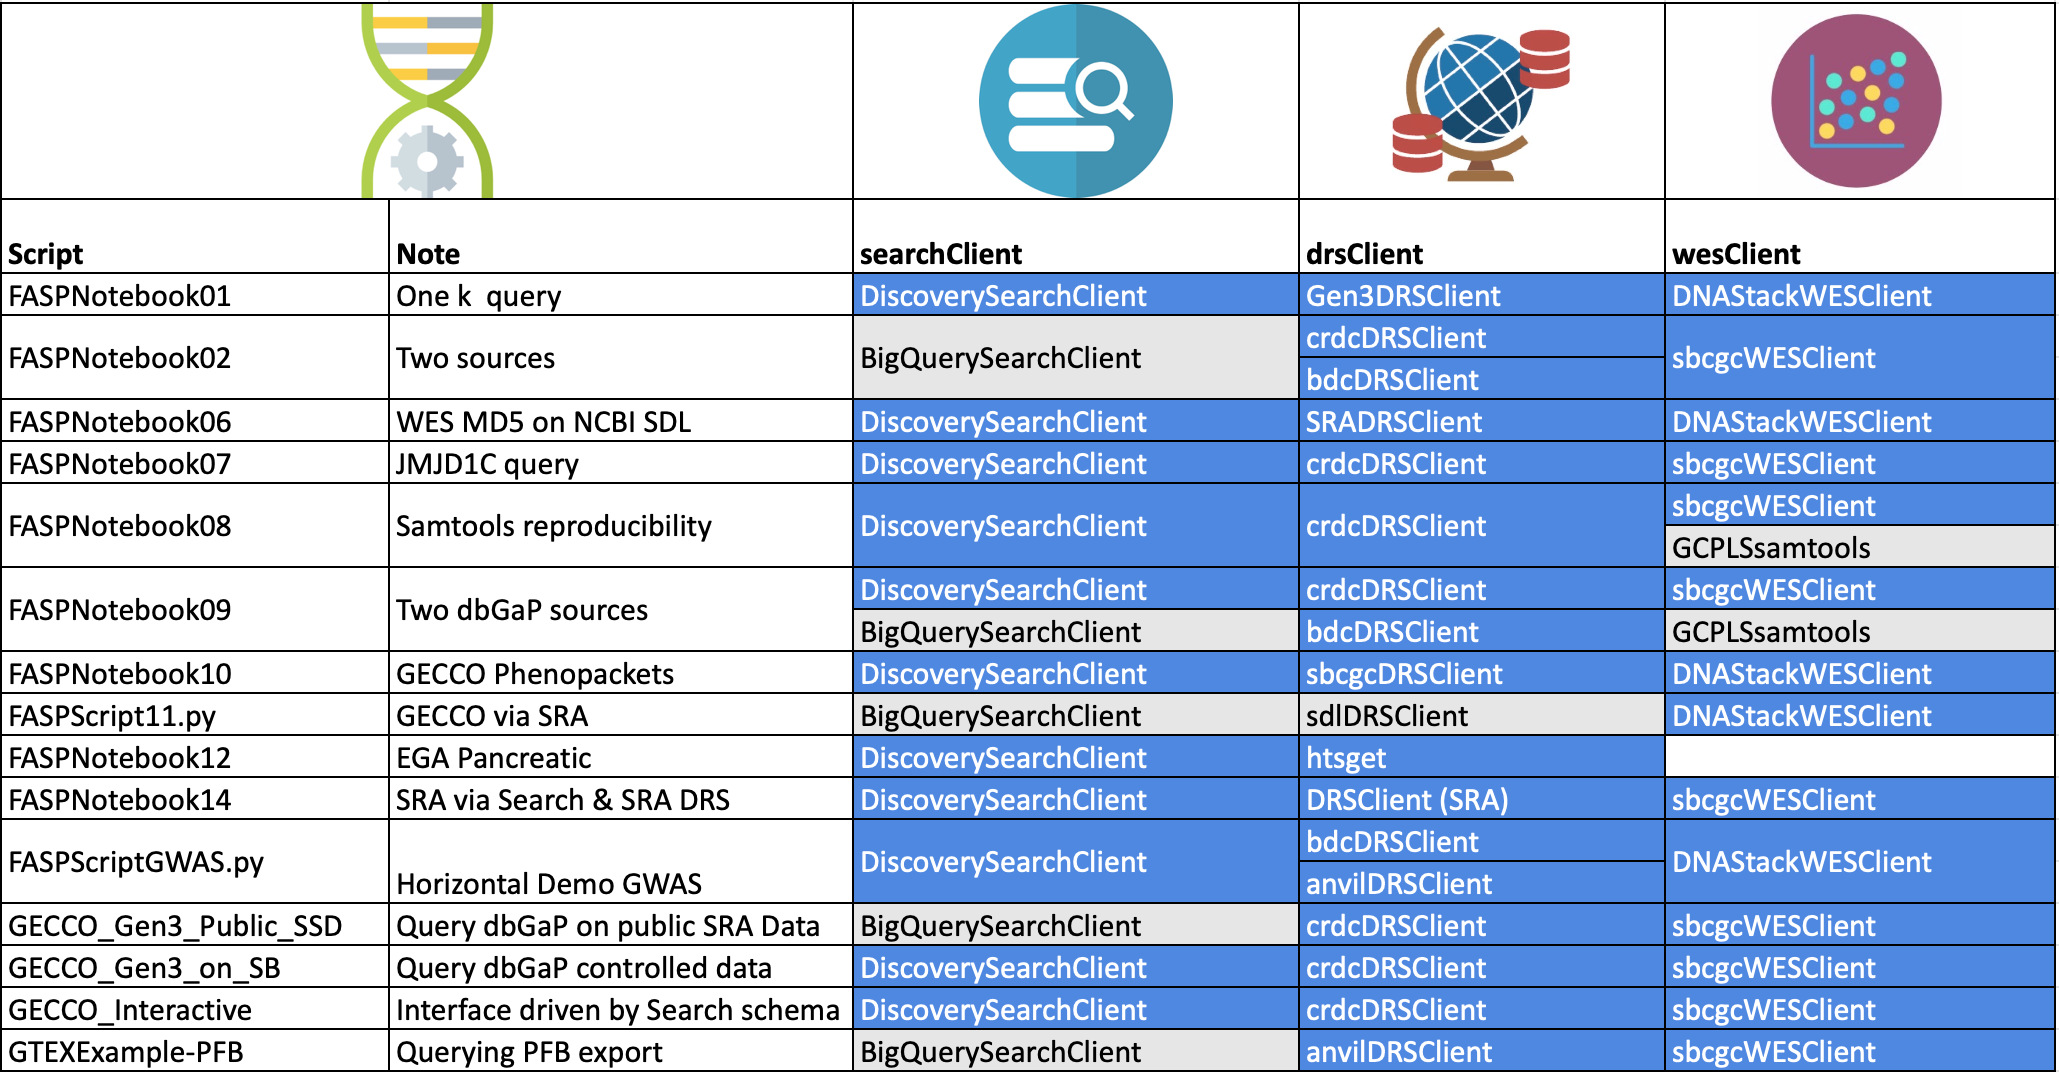
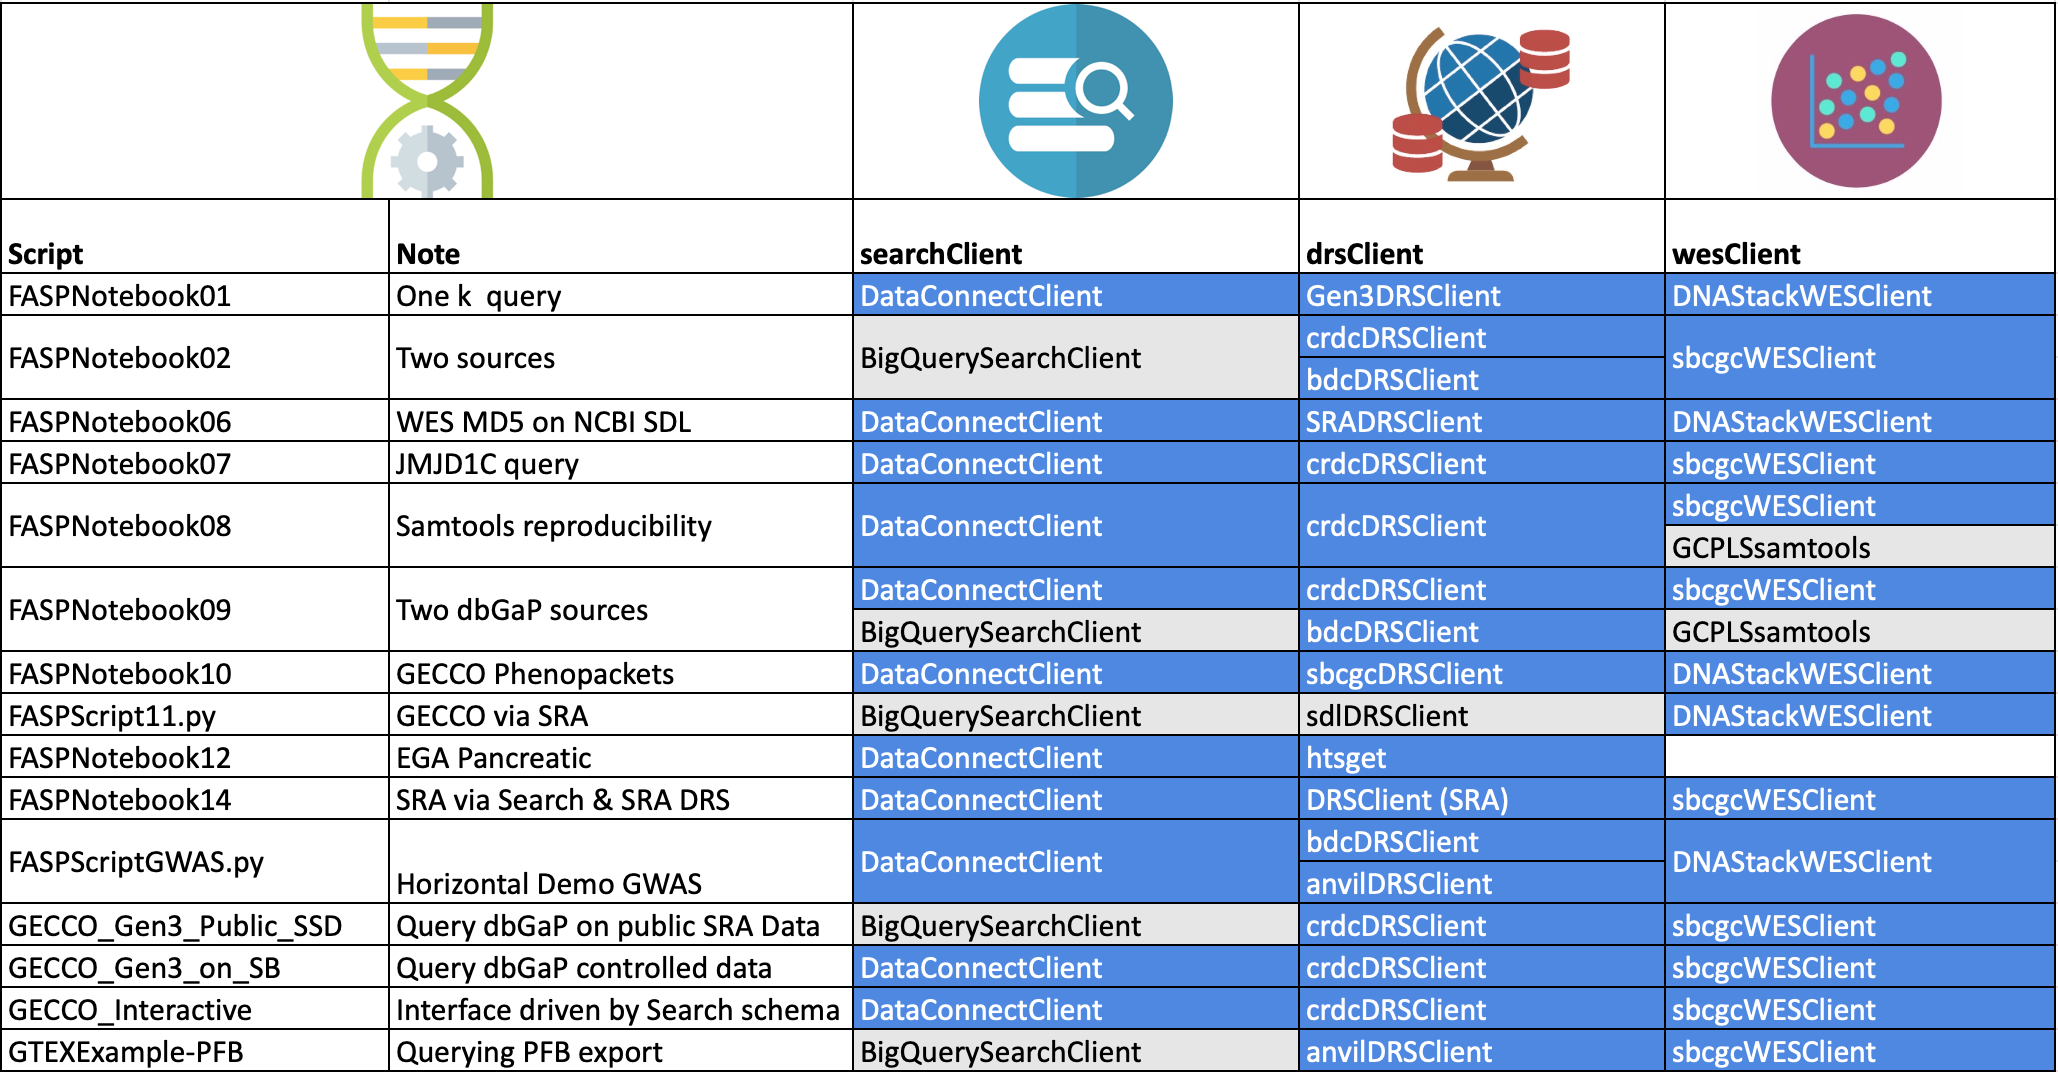
Name updates in free text and images

diff --git a/scripts/README.md b/scripts/README.md
@@ -19,7 +19,7 @@ These Python scripts were originally created for the Cross-Platform Demo at the 
 
 They follow a basic three step pattern used throughout FASP. Each step corresponds to a different GA4GH API as outlined here
 
-- Search - to identify subjects and samples of interest based on attrinutes of those subjects and samples
+- Data Connect - to identify subjects and samples of interest based on attrinutes of those subjects and samples
 - Data Repository Service DRS - to obtain authorized access to files (genomic sequences)
 - Workflow Execution Service - WES -  to perform a workflow on those files
 
@@ -84,7 +84,7 @@ Script: [FASPScriptGWAS.py](https://github.com/ga4gh/fasp-scripts/blob/master/fa
 - Resolves which DRS server needs to be called to obtain a URL to access the file.
 - Submits the GWAS WDL workflow to the DNAStack WES Server using the URL provided by DRS.
 
-### Demonstration of Search and compute from multiple sources 
+### Demonstration of search and compute from multiple sources 
 
 Script: [FASPScript2.py](https://github.com/ga4gh/fasp-scripts/blob/master/fasp/scripts//FASPScript2.py)
 
@@ -105,7 +105,7 @@ Script: [FASPScript2.py](https://github.com/ga4gh/fasp-scripts/blob/master/fasp/
 - Possible to do's
 
   - Add additional dbGaP datasets.
-  - Move query to Discovery Search - requires access control on Discovery Search.
+  - Move query to Data Connect  - requires access control on Data Connect.
 
 ### Reproducibility across stacks 
 
@@ -152,7 +152,7 @@ More to be added
 
 ## Other demos and tests
 
-**testSearchPagination.py** - demonstrates how Discovery Seach query results are returned over several pages
+**testSearchPagination.py** - demonstrates how Data Connect query results are returned over several pages
 
 **examples** - examples of using individual APIs used in the main examples 
 

diff --git a/notebooks/README.md b/notebooks/README.md
@@ -15,7 +15,7 @@ These supersede the scripts used in the FASP-Scripts used at GA4GH Plenary 2020.
 
 The notebooks follow a basic three step pattern used throughout FASP. Each step corresponds to a different GA4GH API as outlined here
 
-- Search - to identify subjects and samples of interest based on attrinutes of those subjects and samples
+- Data Connect - to identify subjects and samples of interest based on attrinutes of those subjects and samples
 - Data Repository Service DRS - to obtain authorized access to files (genomic sequences)
 - Workflow Execution Service - WES -  to perform a workflow on those files
 
